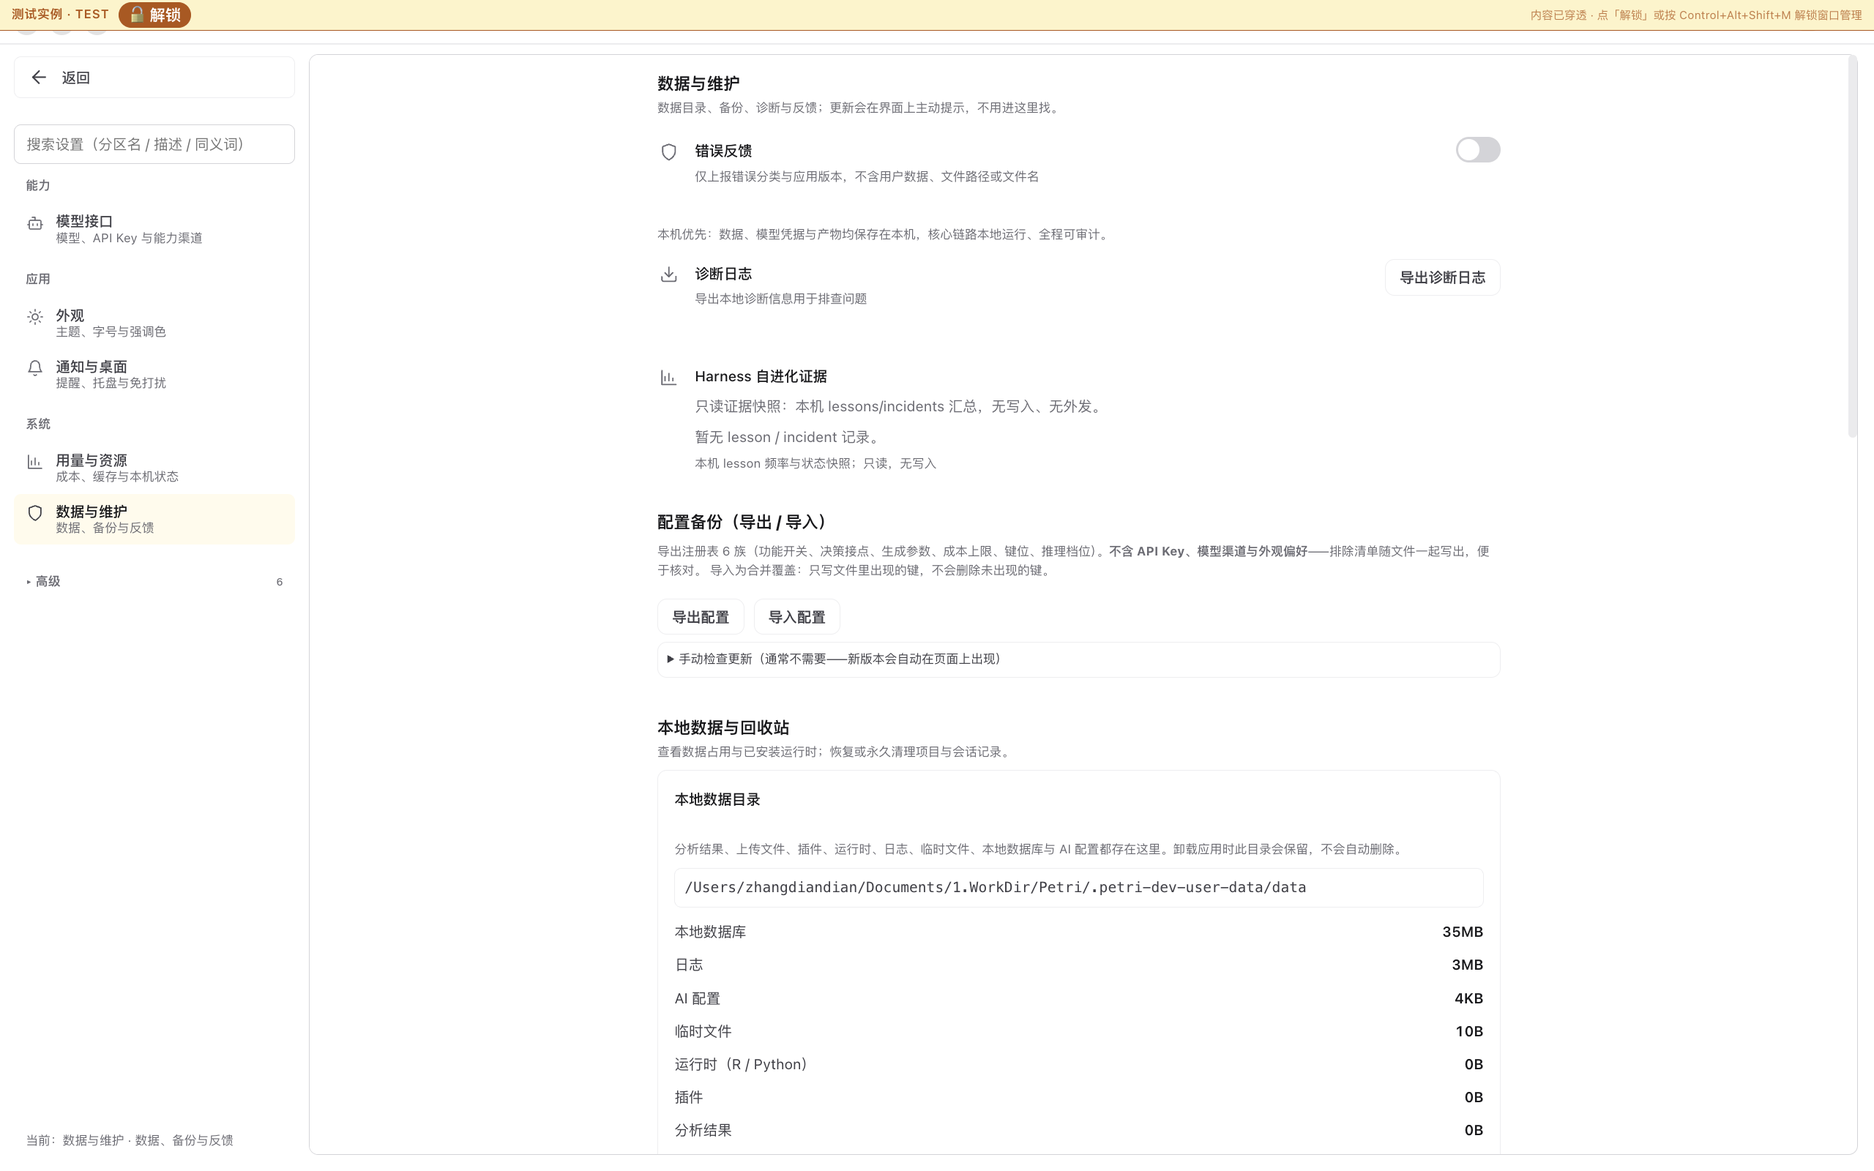
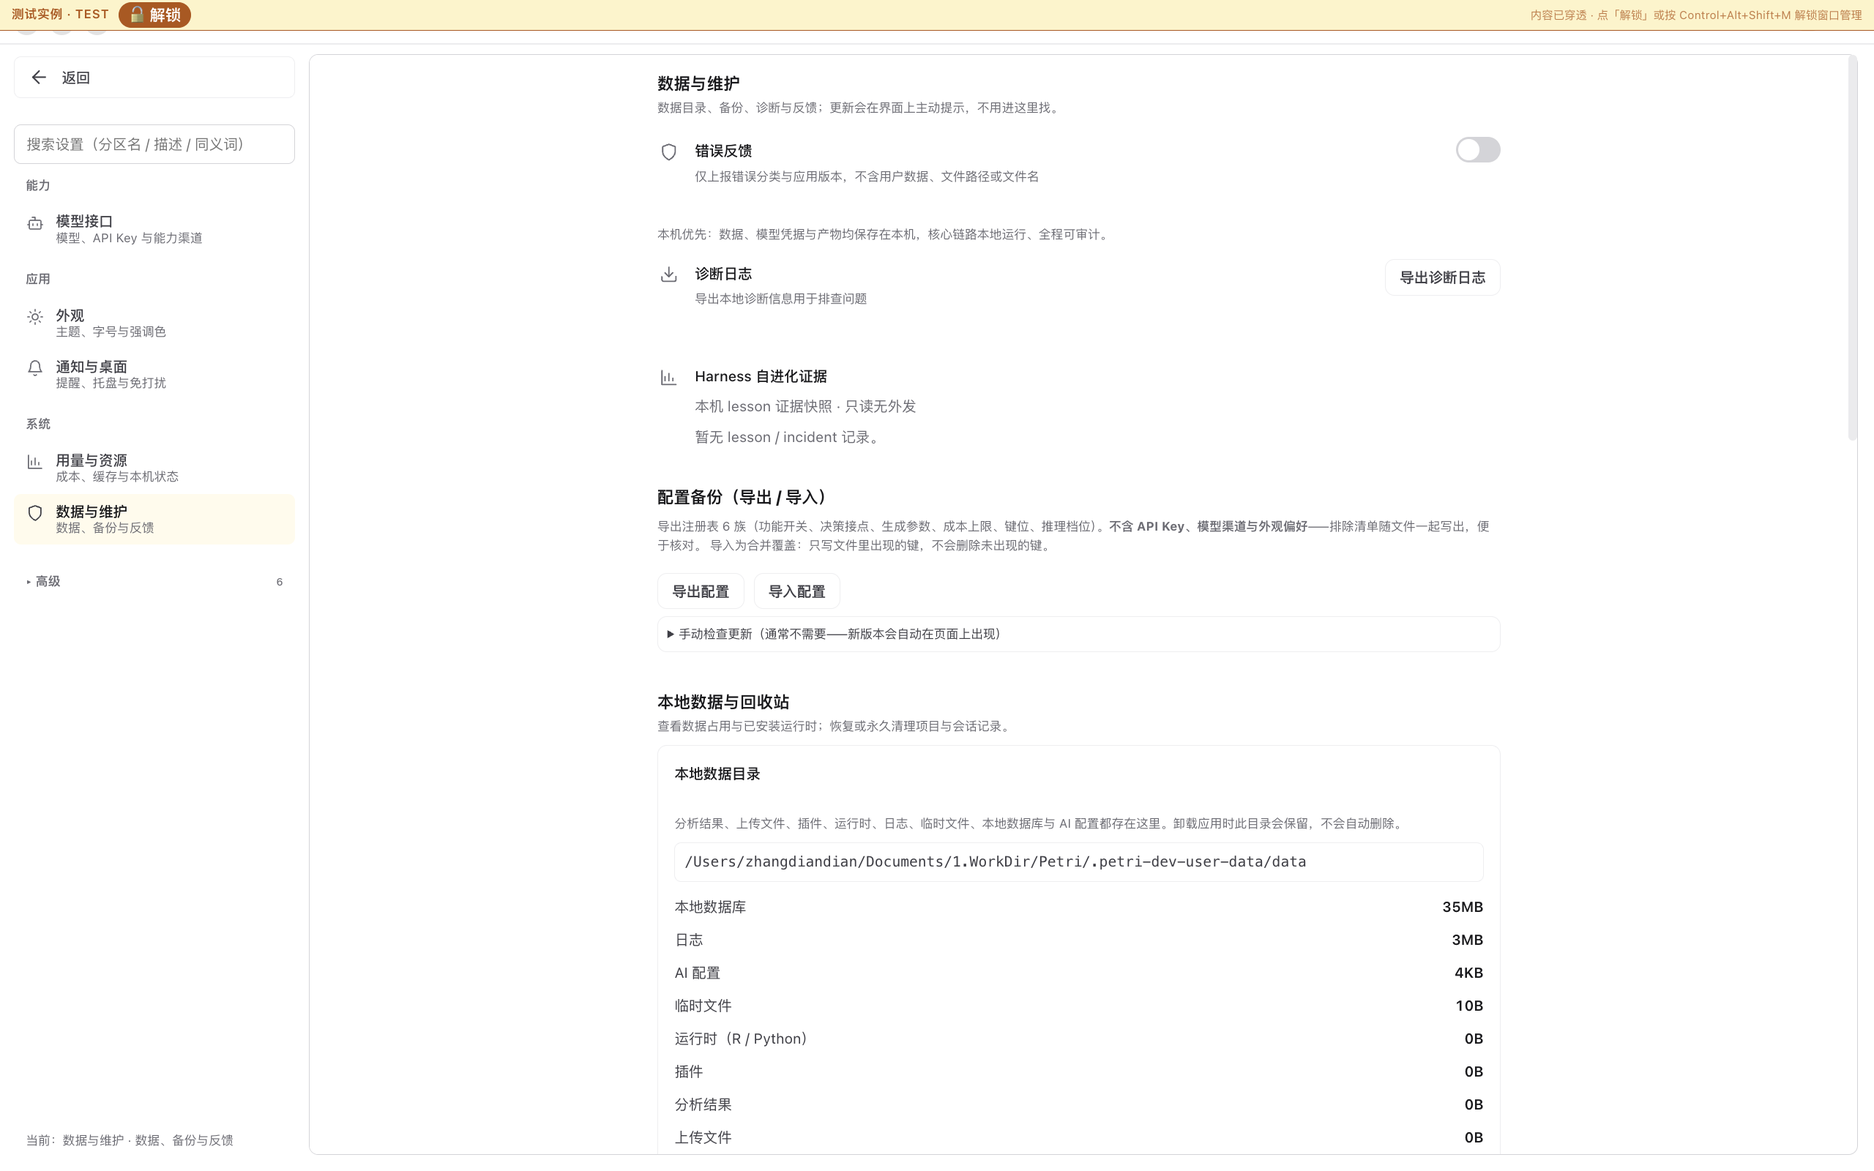
观感签字纪律变更 + UI-716 首次偏好预审闭环（用户裁决「skills 改为偏好预审通过即视为签字」「偏好预审给出优化建议并自动优化，优化后即通过」）：观感项从零代签改为用户口令 OR 偏好预审闭环（用户给明确偏好→实机预审→优化建议→自动优化呈现面→复验通过即翻 verified；边界=仅呈现面不改功能、≤3轮、逐条判据+证据、按项授权不外推、无偏好裁决项仍 in_progress）。canonical 改全 AGENTS.md §UI 进度自动对账 + petri-project-governance 3 refs + petri-ui-design 2 refs。UI-716 首次

Changed region(s): [[0.3438, 0.5938, 0.75, 0.9688], [0.3438, 0.3438, 0.7812, 0.5625], [0.7812, 0.875, 0.8125, 0.9688]]

diff --git a/frontend/src/components/desktop/DesktopSettingsPanel/MaintenanceSection.tsx b/frontend/src/components/desktop/DesktopSettingsPanel/MaintenanceSection.tsx
@@ -49,13 +49,10 @@ export function MaintenanceSection({ telemetryEnabled, onToggleTelemetry, onConf
       <SettingsField icon="download" label="诊断日志" trailing hint="导出本地诊断信息用于排查问题">
         <ExportDiagnostic />
       </SettingsField>
-      {/* EVO-4 UI-716 — harness 自进化证据（只读快照，零写入控件，观感零代签）。
-          不用 trailing：panel 内容宽度可变，trailing 会把 label/hint 列挤成竖排。 */}
-      <SettingsField
-        icon="bar-chart"
-        label="Harness 自进化证据"
-        hint="本机 lesson 频率与状态快照；只读，无写入"
-      >
+      {/* EVO-4 UI-716 — harness 自进化证据（只读快照，零写入控件）。
+          偏好预审「文字少」：说明收敛到面板内一行，字段不再重复 hint；
+          不用 trailing：panel 内容宽度可变，trailing 会把 label 列挤成竖排。 */}
+      <SettingsField icon="bar-chart" label="Harness 自进化证据">
         <LessonEvidencePanel />
       </SettingsField>
       {/* BLOCK-201 W2 — 设置全景导出/导入（注册表 6 族；凭据与未注册落点显式排除） */}

diff --git a/frontend/src/components/desktop/DesktopSettingsPanel/sections/LessonEvidencePanel.tsx b/frontend/src/components/desktop/DesktopSettingsPanel/sections/LessonEvidencePanel.tsx
@@ -47,7 +47,7 @@ export function LessonEvidencePanel(): React.ReactElement | null {
 
   return (
     <div className={styles.panel} data-testid="lesson-evidence-panel" role="note">
-      <p className={styles.hint}>只读证据快照：本机 lessons/incidents 汇总，无写入、无外发。</p>
+      <p className={styles.hint}>本机 lesson 证据快照 · 只读无外发</p>
 
       {!data && <p className={styles.hint}>读取中…</p>}
       {data && !data.ok && <p className={styles.error}>读取失败：{data.error ?? '未知错误'}</p>}

diff --git a/.agents/skills/petri-project-governance/references/NEXT-STEP-BRIEF.md b/.agents/skills/petri-project-governance/references/NEXT-STEP-BRIEF.md
@@ -16,11 +16,11 @@
 
 ````text
 下一步：<候选>（Jev <confidence>）——<一句话范围/体量>；未开工，等你发令。
-位置：Q-MATRIX <✅x/🟡y/🔴z/⛔w=N> · 波次 <A→B→C>（P4-REM 最后、Q4b 单列）· active <无/BLOCK-xxx> · UI 观感 <in_progress 零代签>。
+位置：Q-MATRIX <✅x/🟡y/🔴z/⛔w=N> · 波次 <A→B→C>（P4-REM 最后、Q4b 单列）· active <无/BLOCK-xxx> · UI 观感 <有偏好裁决走预审闭环 / 无则 in_progress 不代签>。
 
 可直接复制的启动提示词（整块发给新 Agent）：
 ```
-你是 Petri Desktop 全自动执行 Agent。用户发令「开始 <候选>」。先读 docs/AUDIT-LOG.md 头部与 docs/next-phase-e2e-prompt-<date>.md §2 自包含正文，按其执行序列推进 <候选>。纪律：单工作包串行、HK-01 红绿先行、每步定向测试+closeout 门禁+证据落 acceptance/+六件套回写+commit/push。红线：观感项（pending_human_eye）保持 in_progress 零代签；新裁决点/产品级新依赖/G1+ 停下报用户；未获用户发令不启动后续阶段。
+你是 Petri Desktop 全自动执行 Agent。用户发令「开始 <候选>」。先读 docs/AUDIT-LOG.md 头部与 docs/next-phase-e2e-prompt-<date>.md §2 自包含正文，按其执行序列推进 <候选>。纪律：单工作包串行、HK-01 红绿先行、每步定向测试+closeout 门禁+证据落 acceptance/+六件套回写+commit/push。红线：观感项有用户偏好裁决的走预审闭环（预审→优化建议→自动优化→复验通过即翻 verified）、无偏好裁决的保持 in_progress 不代签；新裁决点/产品级新依赖/G1+ 停下报用户；未获用户发令不启动后续阶段。
 ```
 ````
 
@@ -30,11 +30,11 @@
 
 ````text
 下一步：C-53-P2（Jev 0.95）——IA 与高频路径首片，1 个小包；未开工，等你发令。
-位置：Q-MATRIX 74/21/0/7=102 · 波次 C-53（P2-P7 待发令）→候选池（P4-REM 最后、Q4b 单列）· active 无 · UI 观感 in_progress 零代签。
+位置：Q-MATRIX 74/21/0/7=102 · 波次 C-53（P2-P7 待发令）→候选池（P4-REM 最后、Q4b 单列）· active 无 · UI 观感 有偏好裁决走预审闭环/无则 in_progress。
 
 可直接复制的启动提示词（整块发给新 Agent）：
 ```
-你是 Petri Desktop 全自动执行 Agent。用户发令「开始 C-53 P2」。先读 docs/AUDIT-LOG.md 头部与 docs/next-phase-e2e-prompt-2026-11-18-b2.md §2 自包含正文，按其执行序列推进 C-53 P2。纪律：单工作包串行、HK-01 红绿先行、每步定向测试+closeout 门禁+证据落 acceptance/+六件套回写+commit/push。红线：观感项（pending_human_eye）保持 in_progress 零代签；新裁决点/产品级新依赖/G1+ 停下报用户；未获用户发令不启动后续阶段。
+你是 Petri Desktop 全自动执行 Agent。用户发令「开始 C-53 P2」。先读 docs/AUDIT-LOG.md 头部与 docs/next-phase-e2e-prompt-2026-11-18-b2.md §2 自包含正文，按其执行序列推进 C-53 P2。纪律：单工作包串行、HK-01 红绿先行、每步定向测试+closeout 门禁+证据落 acceptance/+六件套回写+commit/push。红线：观感项有用户偏好裁决的走预审闭环（预审→优化建议→自动优化→复验通过即翻 verified）、无偏好裁决的保持 in_progress 不代签；新裁决点/产品级新依赖/G1+ 停下报用户；未获用户发令不启动后续阶段。
 ```
 ````
 
@@ -55,7 +55,7 @@
 5. **「未启动任何新工作包，等你发令」**：除非用户在本轮已预授权连续工作，否则这句必须保留；建议是 advice，不是开工。
 6. **母纲波次顺序**：从 `docs/qoder-essence-absorption-plan.md` §6.5 现读，已完成项不列；P4-REM 必须最后，Q4b 单列；压进「位置」行，不另占一行。
 7. **蓝图/全局计划进展**：母纲 Q-MATRIX + active + UI 观感进「位置」行（紧凑）；竞争力纲/成熟度蓝图/Result Studio 仅本轮有变才补「补充」行，未触及不写。数字/状态一律从 canonical 现读，禁止凭记忆或沿用上一轮。
-7b. **可复制启动提示词**（必带、独立代码块）：`<候选>` / `<date>` 现读替换、**不留占位符**；口令含四要素——①发令「开始 <候选>」②先读 AUDIT-LOG + 提示词 §2 ③纪律（串行/HK-01/测试+closeout+证据+六件套+commit）④红线（观感零代签/新裁决与依赖与 G1+ 停/未发令不续）。目的=用户整块复制即可启动，无需阅读辨别；但口令本身是 advice 的载体，是否发出由用户决定。
+7b. **可复制启动提示词**（必带、独立代码块）：`<候选>` / `<date>` 现读替换、**不留占位符**；口令含四要素——①发令「开始 <候选>」②先读 AUDIT-LOG + 提示词 §2 ③纪律（串行/HK-01/测试+closeout+证据+六件套+commit）④红线（观感项有偏好裁决走预审闭环、无则零代签/新裁决与依赖与 G1+ 停/未发令不续）。目的=用户整块复制即可启动，无需阅读辨别；但口令本身是 advice 的载体，是否发出由用户决定。
 8. **active 工作包**：以 `docs/project-workspace-handoff.md` 的「恢复要点」与 `docs/DOC-REGISTRY.json` 为准；没有就写「无」。
 9. **不列 G1+**：Provider 矩阵、packaged 公证/签名、GA、远程发布、dist staleness 等不作为下一步建议；G0 阶段纪律不变。
 10. **不把「未做」写成「阻塞」**：阻塞只用于真正的契约/安全/外部条件前置；可做但未排期的写「未开工/排队」。

diff --git a/docs/AUDIT-LOG.md b/docs/AUDIT-LOG.md
@@ -1,4 +1,5 @@
 最后更新：2026-11-20（🚀 **UI-714 加映三：ResultCard 渲染缺省开启（用户裁决「Agent 工作台：ResultCard 渲染 改为默认开启」）**：三处默认源翻转——main.js 进程内缺省 true、parseAgentWorkbenchFlags 无显式配置即开（显式列表语义保留含空串=关）、renderer resolveInitialFlag 仅显式 'false' 视为关闭（bridge 优先语义不动）；显式关闭过的用户保持关闭（尊重显式选择）。测试三文件 39/39（含显式 false 尊重/bridge 优先/storage 翻转方向）；主进程面需重启生效（已重启）。UI-715 右键信息菜单 + BLOCK-510 工具调用可靠性同日已在册。零新依赖/观感零代签/不碰 G1+。G0 开发期常态 · 不外推 packaged/Provider/GA.）
+最后更新：2026-11-20（🚀 **观感签字纪律变更（用户裁决「skills 改为 偏好预审通过即视为签字」+「偏好预审给出优化建议并自动优化，优化后即通过」）**：观感项从「零代签/仅用户口令」改为「用户口令 OR 偏好预审闭环」——用户给明确偏好原话后 Agent 按标准预审→优化建议→自动优化呈现面→复验通过即翻 verified（边界：仅呈现面不改功能、≤3 轮、逐条判据+证据留痕、按项授权不外推）。canonical 改全=AGENTS.md §UI 进度自动对账 + petri-project-governance（NEXT-STEP-BRIEF/NEXT-PHASE-PROMPT-HANDOFF/STAGE-CLOSEOUT-CHECKLIST）+ petri-ui-design（SKILL/review-checklist）。**首次适用 UI-716**：偏好「简单文字少，布局和谐」——第1轮文字少 fail（3行同义反复）→删字段 hint+面板文案收敛一行→第2轮两判据 pass（textLen 63→46，截图对齐正常）→翻 verified。Node 23/23+前端 23/23+实机 7/7+ui:audit/契约 5/5/docs 661 全绿。零新依赖/不碰 G1+。G0 开发期常态 · 不外推 packaged/Provider/GA.）
 最后更新：2026-11-20（🏁 **EVO-4 主窗重启 + 验证盲区防复发（bug 热修收尾）**：用户反馈 bugfix 后主窗仍报同 ABI 错——根因=主窗 Electron 主进程（14:02 启动）比 bugfix（14:13）早 11 分钟驻留旧 handler，上批只重启后端漏了 Electron 主窗。用户授权后定点杀进程链（31030+31171）+npm run dev 起完整栈（49524/49673/49730/49969），CDP 只读 invoke data.lessonEvidence()→{ok:true,lessons:0} 无 ABI 错误（新 handler 生效，不导航用户窗）。防复发=新增 dev-verify flow mainwindow-handler-contract（只读 invoke 主窗 handler 断言无 ABI，4/4 PASS）作为**主进程改动收口必跑门禁**；impact-map+knip 基线登记回存量 38；docs 661 PASS。观感零代签 UI-716 仍 in_progress 等口令。零新依赖/不碰 G1+。G0 开发期常态 · 不外推 packaged/Provider/GA.）
 最后更新：2026-11-20（🏁 **EVO-4 用户实测 bug 热修（同日）**：主窗截图两真 bug——①主进程直开 better-sqlite3 触发 ABI mismatch（9223 测试实例 ABI 恰能加载故此前未暴露，主窗即爆）→ IPC handler 改走后端只读 REST `GET /api/harness/lesson-evidence`（新路由+mount，主进程只 fetch）；②label/hint 竖排（trailing+长路径文案挤塌文本列）→ 去 trailing+panel 宽度/断行约束。HK-01 红 5/5→绿 5/5+邻域 38/38+前端 23/23+实机 7/7（新增 D7 无 ABI 红字）+docs 661/ui/secret/arch/types 全绿+lint 0 error+knip 回存量38。后端重启 PID 31303→41004。观感零代签 UI-716 保持 in_progress。零新依赖/纯本地零外发/不碰 G1+。G0 开发期常态 · 不外推 packaged/Provider/GA.）
 最后更新：2026-11-20（🏁 **EVO-4 收口（用户发令「冲」=EVO-3 deferred 面板转正）**：data.lessonEvidence 只读 IPC 四处同步（R5 合规：core/shared-backend 路径单源+ABI 构造器单源直读 petri.db）+设置页 LessonEvidencePanel（只读频率曲线/状态，零写入控件、无代签徽标，UI-716 in_progress 零代签）。HK-01 红→绿 Node 9/9+IPC 守护 9/9+前端 23/23（含 theme-token）+tsc 0+ui:audit/docs 661/secret/arch 全绿+lint 0 error（订阅式回调规避 set-state-in-effect，零新增豁免）+knip 零命中。AUDIT-LOG 超 120KB 经 audit:compact 归档 27 行历史后 docs 复检绿。EVO-0/1/2/3/4 五包全落地，Observe→Distill→Evolve→Verify→Guard+用户可见证据面齐。存量红如实归属零触碰。零新依赖/纯本地零外发/观感零代签/不碰 G1+。G0 开发期常态 · 不外推 packaged/Provider/GA.）

diff --git a/docs/evo-harness-self-evolution-plan.md b/docs/evo-harness-self-evolution-plan.md
@@ -247,4 +247,12 @@ CREATE INDEX IF NOT EXISTS idx_incidents_fingerprint ON incidents(fingerprint, c
 - **观感零代签**：UI-716 保持 in_progress + pending_human_eye；用户切到「数据与维护」分区看过面板后给口令才翻 verified。
 - **纪律**：零新依赖/纯本地零外发/观感零代签/不碰 G1+。G0 开发期常态 · 不外推 packaged/Provider/GA。
 
+## 14. 观感签字纪律变更 + UI-716 首次适用（2026-11-20 · 用户裁决）
+
+- **裁决原话**：「按你的建议来 同时优化一下，skills 改为 偏好预审通过即视为签字」+「偏好预审给出优化建议并自动优化，优化后即通过」。
+- **新纪律**：观感项从「零代签/仅用户口令」改为「用户口令 OR 偏好预审闭环」；闭环=用户给明确偏好标准 → Agent 实机预审 → 优化建议 → 自动优化呈现面 → 复验通过即翻 verified。边界=仅呈现面（文案/布局/space/token）不改功能与交互契约、≤3 轮、逐条判据+证据留痕、按项/按类授权不外推、无偏好裁决项仍 in_progress。canonical 改全：AGENTS.md §UI 进度自动对账 + petri-project-governance 3 refs + petri-ui-design 2 refs（符号链接发现桥自动同步）。
+- **UI-716 首次适用**：偏好原话「简单文字少，布局和谐」。轮 1 预审：布局 pass、文字少 fail（字段 hint + 面板 hint + 空态三行同义反复）；优化建议=删字段 hint、面板 hint 收敛一行；自动优化后轮 2 复验：文字少 pass（面板 2 行，textLen 63→46）、布局 pass、只读/无红字 pass（实机 7/7）→ 翻 verified，台账留逐轮判据 + 证据路径。
+- **验证**：Node 契约 23/23、前端 23/23、实机 7/7、ui:audit ✓、UI 台账契约 5/5（triage 重算）、docs:check PASS(661)。
+- **纪律**：零新依赖/纯本地零外发/不碰 G1+。G0 开发期常态 · 不外推 packaged/Provider/GA。
+
 G0 开发期常态 · 不外推 packaged/Provider/GA。

diff --git a/AGENTS.md b/AGENTS.md
@@ -228,6 +228,7 @@ desktop/
 - 每个 UI 增量必须在同一提交更新 `docs/ui-productization-audit.md`，并在提交标题或正文标注对应 `UI-###`。
 
 - 实现完成、尚未实机验收的条目使用 `in_progress`；只有实机证据充分时才能使用 `verified`。
+- **观感签字纪律（2026-11-20 用户裁决 · 偏好预审闭环）**：观感项（`pending_human_eye`）从「仅用户口令翻 verified」改为「用户口令 **或** 用户预授权的偏好预审闭环」。**偏好预审闭环**=用户给出明确偏好标准后，Agent 按标准做实机截图预审 → **给出优化建议 → 自动执行优化 → 复验通过后即翻 verified**（用户不必再给口令）。边界：①用户须先给出明确偏好标准（原话留痕，如 UI-716「简单文字少、布局和谐」）；②每轮预审须有实机截图证据 + 按标准**逐条判据**（每条 pass/fail），不通过项写入优化建议；③自动化只改呈现面（文案/布局/space/token），**不改功能语义与交互契约**，改动走同一提交 + 定向测试 + 实机复验；④台账该段须写清「偏好预审闭环：标准原话 + 逐轮判据 + 优化项 + 优化前后证据路径」；⑤无偏好裁决的 UI 项不主动预审、维持 in_progress；⑥偏好按项/按类授权，不自动外推到所有 UI；⑦迭代上限 3 轮，3 轮仍不过则停下报用户、不翻 verified。改动此纪律本体需用户显式裁决。
 
 - 提交前运行 `npm run ui:audit:check`；根 `npm run check` 也会自动执行该门禁。
 

diff --git a/.agents/skills/petri-project-governance/references/STAGE-CLOSEOUT-CHECKLIST.md b/.agents/skills/petri-project-governance/references/STAGE-CLOSEOUT-CHECKLIST.md
@@ -42,6 +42,6 @@
 
 - [ ] 按 `references/NEXT-PHASE-PROMPT-HANDOFF.md` 派生并落档下一阶段无人值守提示词（与 NEXT-STEP-BRIEF 同层、在其之后）
 - [ ] 输入现读（state / AUDIT-LOG / 上一批提示词 / `npm run next:suggest -- --supply=cloud`），非聊天回忆；§2 正文七要素齐 + 两条红线 + G0 用语一次
-- [ ] 预置裁决只继承上一批已授权范围或引用用户发令，无 agent 自造新阶段范围；观感项零代签、既有红归属如实
+- [ ] 预置裁决只继承上一批已授权范围或引用用户发令，无 agent 自造新阶段范围；观感项有偏好裁决的走预审闭环（逐条判据留痕）、无偏好裁决的不代签；既有红归属如实
 - [ ] 三件套登记齐（DOC-REGISTRY + README + AUDIT-LOG）+ `npm run docs:check` 绿 + `npm run hygiene:check` 绿
 - [ ] 队列确已清空且无下一阶段候选时，如实写「队列未变」，不臆造提示词

diff --git a/.agents/skills/petri-ui-design/SKILL.md b/.agents/skills/petri-ui-design/SKILL.md
@@ -60,7 +60,7 @@ Use `references/design-brief-template.md` for product mode. Include:
 - Run the mechanical gates relevant to the touched surface: `theme-token-contract`, UI audit, targeted tests, and `dev-verify` flows when UI behavior changes.
 - Use `references/review-checklist.md` for a pre-delivery review.
 - Write static scores only from current command output; never call them human-eye scores.
-- Mark aesthetic/visual judgement as `pending_human_eye`; agents do not sign it.
+- Aesthetic/visual judgement: with a user preference ruling, run the preference-review loop (review → optimization suggestions → auto-optimize the presentation layer → re-verify → sign verified with per-criterion evidence); without a preference ruling, mark `pending_human_eye` and do not sign. See AGENTS.md §UI 进度自动对账 for boundaries (≤3 iterations, presentation-only changes).
 
 ## Hard rules
 

diff --git a/.agents/skills/petri-ui-design/references/review-checklist.md b/.agents/skills/petri-ui-design/references/review-checklist.md
@@ -36,7 +36,7 @@ Run before declaring any Petri UI or design artifact complete.
 - [ ] Static, mechanical, and human-eye evidence separated.
 - [ ] Targeted tests and dev-verify flows run where applicable.
 - [ ] Screenshots unavailable are recorded as unavailable, not passed.
-- [ ] Aesthetic judgement marked `pending_human_eye`.
+- [ ] Aesthetic judgement: with user preference ruling, preference-review loop completed (per-criterion verdict + optimization + re-verify evidence); otherwise marked `pending_human_eye`.
 - [ ] External references and licenses recorded; nothing copied from brands.
 
 ## Product capability mode
